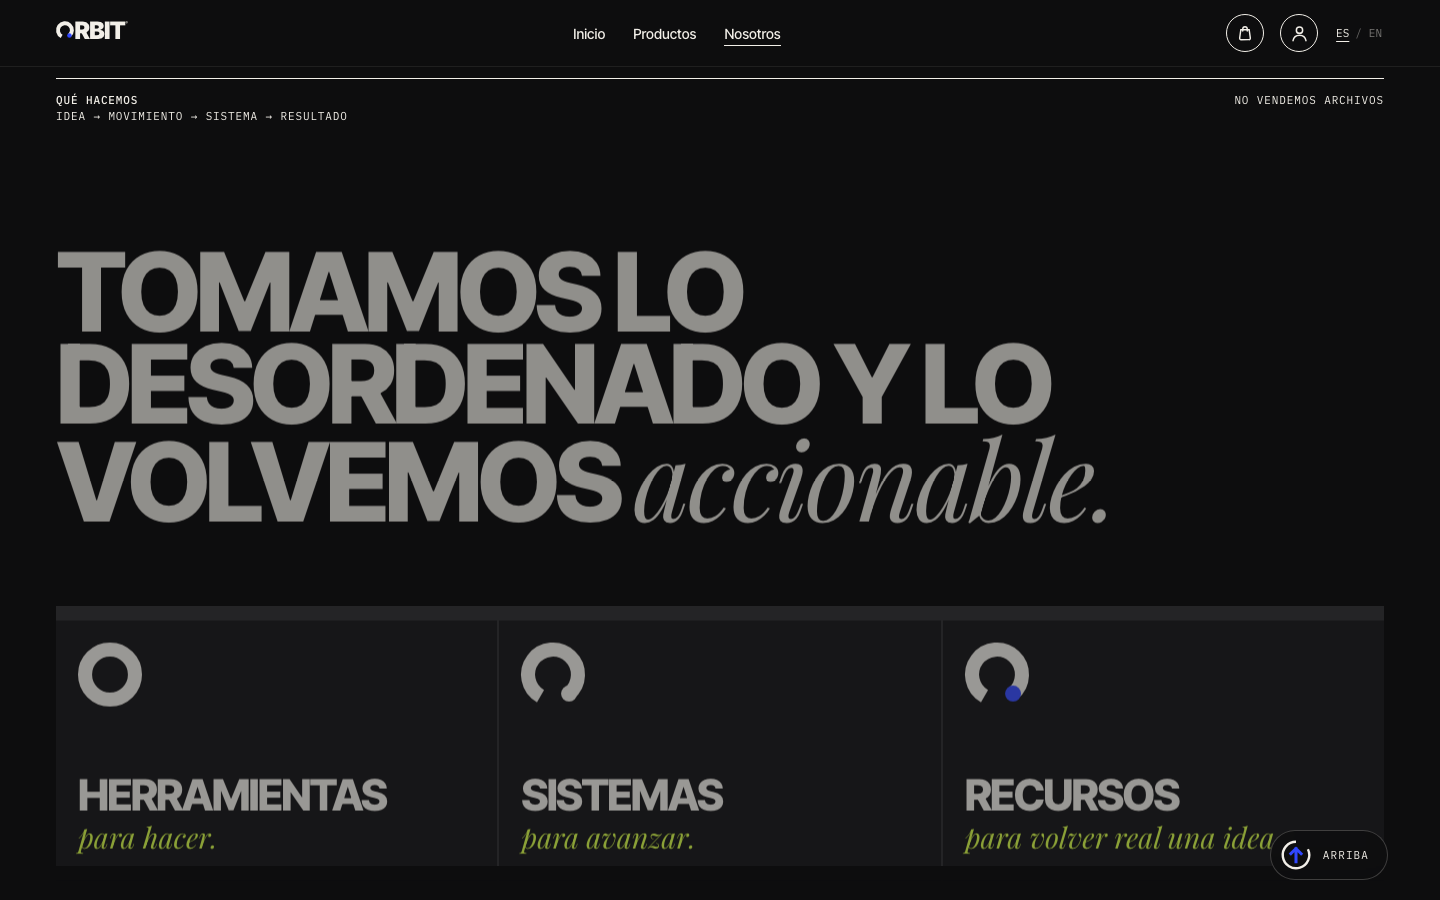
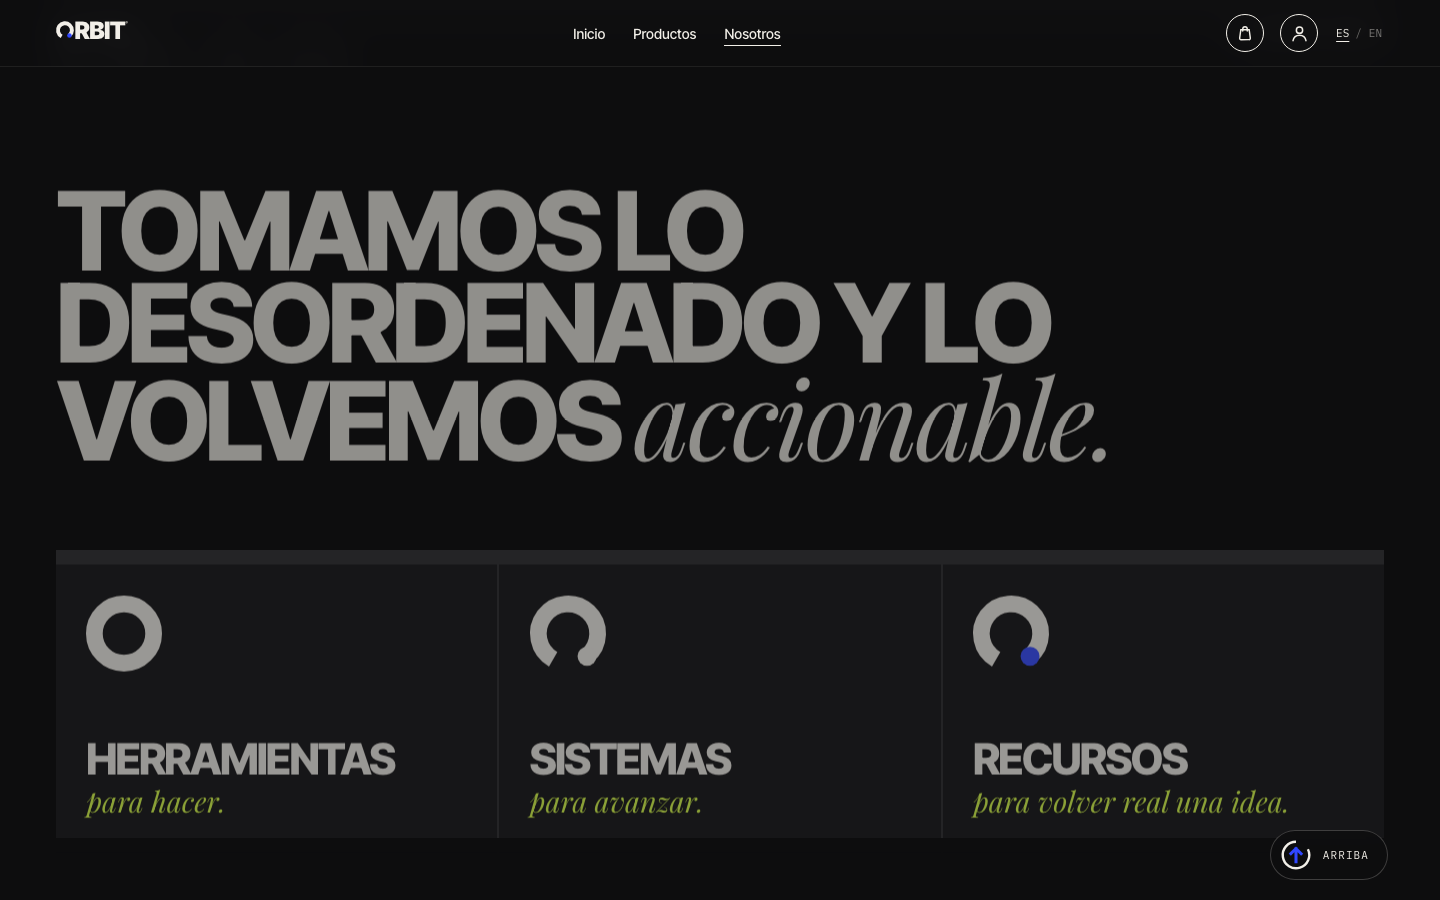
nosotros: los titulares con medida en el atributo style pasan a clase, para poder achicarlos en escritorio

diff --git a/nosotros.html b/nosotros.html
@@ -258,6 +258,16 @@ main>section.sec{min-height:100svh;display:flex;flex-direction:column;justify-co
   [data-page="nosotros"] .chain{margin-top:0}   /* el hueco lo pone el gap del wrap */
   [data-page="nosotros"] .sec > .wrap.contact{gap:clamp(28px,4vh,52px)}
 }
+
+/* los dos titulares que traían la medida en el atributo style: en CSS se les
+   puede dar otra proporción en escritorio, en el atributo no */
+.h-tomamos{font-size:clamp(34px,7.6vw,112px);max-width:15ch;margin-bottom:clamp(24px,4vw,64px)}
+.h-contacto{margin:12px 0 26px;font-size:clamp(38px,10vw,96px)}
+@media (min-width:1000px){
+  [data-page="nosotros"] .h-tomamos{font-size:clamp(48px,5vw,84px);max-width:17ch;
+    margin-bottom:0}
+  [data-page="nosotros"] .h-contacto{font-size:clamp(44px,4.6vw,78px);margin:14px 0 28px}
+}
 </style>
 </head>
 <body data-page="nosotros" data-title-es="Nosotros — Orbit®" data-title-en="About — Orbit®">
@@ -282,7 +292,7 @@ main>section.sec{min-height:100svh;display:flex;flex-direction:column;justify-co
 <section class="sec dark">
   <div class="wrap">
     <div class="shead mono"><div><b><span data-l="es">Qué hacemos</span><span data-l="en">What we do</span></b><span data-l="es">Idea → movimiento → sistema → resultado</span><span data-l="en">Idea → motion → system → result</span></div><div style="text-align:right"><span data-l="es">No vendemos archivos</span><span data-l="en">We don’t sell files</span></div></div>
-    <h2 class="display rv" style="font-size:clamp(34px,7.6vw,112px);max-width:15ch;margin-bottom:clamp(24px,4vw,64px)"><span data-l="es">Tomamos lo desordenado y lo volvemos <span class="it">accionable.</span></span><span data-l="en">We take what’s messy and make it <span class="it">actionable.</span></span></h2>
+    <h2 class="display rv h-tomamos"><span data-l="es">Tomamos lo desordenado y lo volvemos <span class="it">accionable.</span></span><span data-l="en">We take what’s messy and make it <span class="it">actionable.</span></span></h2>
     <div class="vals" id="vals"></div>
   </div>
 </section>
@@ -336,7 +346,7 @@ main>section.sec{min-height:100svh;display:flex;flex-direction:column;justify-co
 
 <section class="sec light">
   <div class="wrap contact">
-    <div class="rv"><span class="mono"><span data-l="es">Contacto</span><span data-l="en">Contact</span></span><h2 class="display" style="margin:12px 0 26px;font-size:clamp(38px,10vw,96px)"><span data-l="es">Hablemos de lo que <span class="it">estás construyendo.</span></span><span data-l="en">Let’s talk about what <span class="it">you’re building.</span></span></h2><a class="big" href="mailto:hola@orbitando.com.ar">hola@orbitando.com.ar</a></div>
+    <div class="rv"><span class="mono"><span data-l="es">Contacto</span><span data-l="en">Contact</span></span><h2 class="display h-contacto"><span data-l="es">Hablemos de lo que <span class="it">estás construyendo.</span></span><span data-l="en">Let’s talk about what <span class="it">you’re building.</span></span></h2><a class="big" href="mailto:hola@orbitando.com.ar">hola@orbitando.com.ar</a></div>
     <div class="rv" style="display:flex;flex-direction:column;gap:14px"><span class="mono dim"><span data-l="es">Respondemos en 48 h hábiles</span><span data-l="en">We reply within 2 business days</span></span><a class="btn btn-line" href="mailto:hola@orbitando.com.ar?subject=Hola%20Orbit" style="justify-content:space-between"><span data-l="es">Escribirnos un mail</span><span data-l="en">Send us an email</span> <span class="ar">→</span></a></div>
   </div>
 </section>
